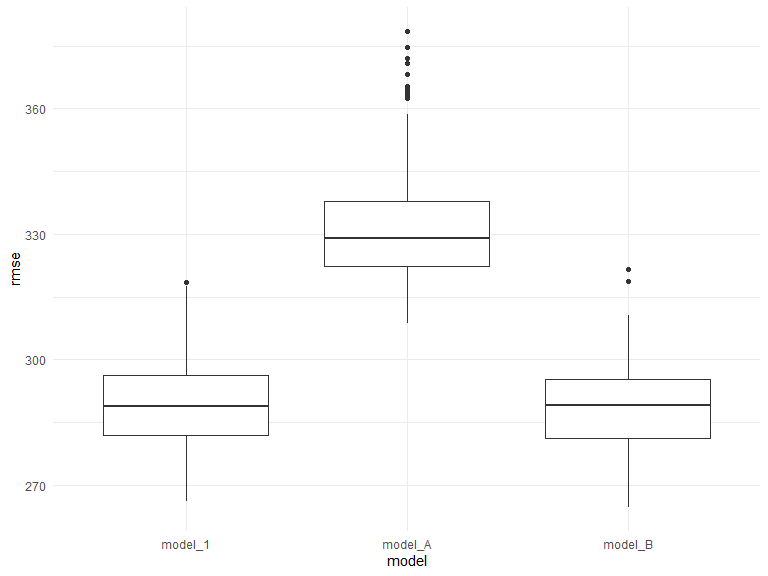
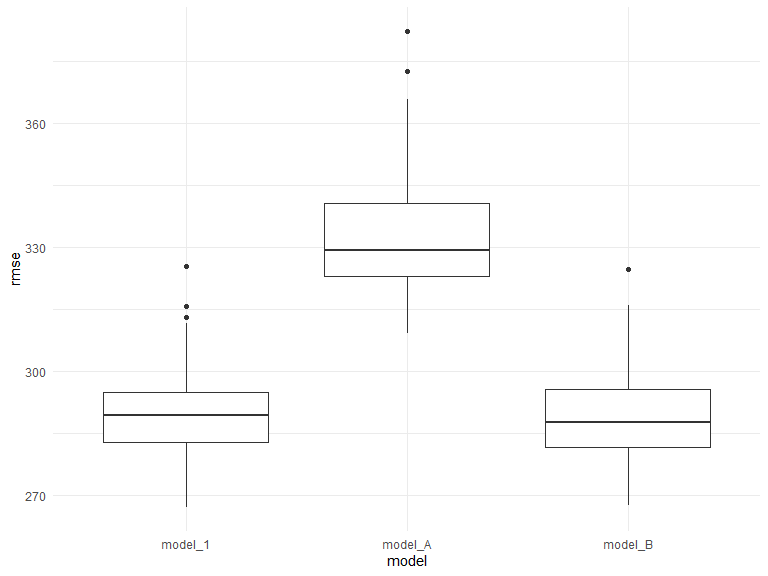
some editings

diff --git a/p8105_hw6_yc3883.md b/p8105_hw6_yc3883.md
@@ -5,26 +5,7 @@ Yijia Chen
 
 ``` r
 library(tidyverse)
-```
-
-    ## -- Attaching packages --------------------------------------- tidyverse 1.3.1 --
-
-    ## v ggplot2 3.3.5     v purrr   0.3.4
-    ## v tibble  3.1.4     v dplyr   1.0.7
-    ## v tidyr   1.1.3     v stringr 1.4.0
-    ## v readr   2.0.1     v forcats 0.5.1
-
-    ## -- Conflicts ------------------------------------------ tidyverse_conflicts() --
-    ## x dplyr::filter() masks stats::filter()
-    ## x dplyr::lag()    masks stats::lag()
-
-``` r
 library(viridis)
-```
-
-    ## 载入需要的程辑包：viridisLite
-
-``` r
 library(modelr)
 library(p8105.datasets)
 
@@ -109,8 +90,8 @@ bwt_den =
 
 Describe the modeling process:
 
-Fit the model. We have two possible models for candidates. model\_1 uses
-“bhead” and “blength” as predictors. model\_2 uses “bhead” and “gaweeks”
+Fit the model. We have two possible models for candidates. Model\_1 uses
+“bhead” and “blength” as predictors. Model\_2 uses “bhead” and “gaweeks”
 as predictors. We will compare the cross-validated prediction error of
 these models. Also, we can also see the p-value for different variables
 and compare the strength of association between predictors and baby
@@ -164,9 +145,9 @@ model_1 %>%
     ## # A tibble: 3 x 5
     ##   term        estimate std.error statistic   p.value
     ##   <chr>          <dbl>     <dbl>     <dbl>     <dbl>
-    ## 1 (Intercept)  -5919.     106.       -55.6 0        
-    ## 2 bhead          147.       3.88      37.9 1.98e-263
-    ## 3 blength         82.2      2.28      36.0 1.71e-241
+    ## 1 (Intercept)  -5998.     107.       -56.3 0        
+    ## 2 bhead          149.       3.89      38.3 2.46e-268
+    ## 3 blength         82.3      2.30      35.8 1.69e-239
 
 ``` r
 model_2 %>% 
@@ -175,11 +156,11 @@ model_2 %>%
 ```
 
     ## # A tibble: 3 x 5
-    ##   term        estimate std.error statistic     p.value
-    ##   <chr>          <dbl>     <dbl>     <dbl>       <dbl>
-    ## 1 (Intercept)  -5134.     120.       -42.9 Inf.  e-324
-    ## 2 bhead          217.       3.73      58.1   0        
-    ## 3 gaweeks         24.3      1.91      12.8   1.65e- 36
+    ##   term        estimate std.error statistic  p.value
+    ##   <chr>          <dbl>     <dbl>     <dbl>    <dbl>
+    ## 1 (Intercept)  -5195.     120.       -43.3 0       
+    ## 2 bhead          221.       3.74      59.0 0       
+    ## 3 gaweeks         22.5      1.91      11.8 2.59e-31
 
 Comparing model\_1 and model\_2, model\_1 has a lower cross-validated
 prediction error. Also, the two predictors in model\_1 show a stronger
@@ -202,8 +183,6 @@ model1_des_plot =
 model1_des_plot
 ```
 
-    ## `geom_smooth()` using formula 'y ~ x'
-
 <img src="p8105_hw6_yc3883_files/figure-gfm/unnamed-chunk-5-1.png" width="90%" />
 
 ## Problem 1 (b)
@@ -214,7 +193,7 @@ A. One using length at birth and gestational age as predictors (main
 effects only) B. One using head circumference, length, sex, and all
 interactions (including the three-way interaction) between these
 
-Generate the A and B model
+Generate the A and B models
 
 ``` r
 model_A = 
@@ -224,8 +203,7 @@ model_B =
   lm(bwt ~ babysex + bhead + blength + babysex * bhead + babysex * blength + bhead * blength + babysex * bhead * blength, data = train_df)
 ```
 
-Make this comparison in terms of the cross-validated prediction error;
-use crossv\_mc and functions in purrr as appropriate.
+Make this comparison in terms of the cross-validated prediction error.
 
 ``` r
 cv_comp_df = 
@@ -262,6 +240,10 @@ cv_output
 
 <img src="p8105_hw6_yc3883_files/figure-gfm/unnamed-chunk-7-1.png" width="90%" />
 
+Model\_1 and model\_B have significantly lower rmse than model\_A. And
+there is no obvious difference between model\_1 and model\_B based on
+this plot.
+
 # Problem 2
 
 ## Problem 2 (a)
@@ -281,16 +263,6 @@ weather_df =
     tmax = tmax / 10) %>%
   select(name, id, everything())
 ```
-
-    ## Registered S3 method overwritten by 'hoardr':
-    ##   method           from
-    ##   print.cache_info httr
-
-    ## using cached file: C:\Users\74030\AppData\Local/Cache/R/noaa_ghcnd/USW00094728.dly
-
-    ## date created (size, mb): 2021-10-18 20:59:25 (7.621)
-
-    ## file min/max dates: 1869-01-01 / 2021-10-31
 
 We’ll focus on a simple linear regression with tmax as the response and
 tmin as the predictor, and are interested in the distribution of two
@@ -329,7 +301,7 @@ quantile(rs_est$r.squared, probs = c(0.025, 0.975))
 ```
 
     ##      2.5%     97.5% 
-    ## 0.8937154 0.9267930
+    ## 0.8941340 0.9269443
 
 ``` r
 ggp_rs_est = 
@@ -342,9 +314,9 @@ ggp_rs_est
 
 <img src="p8105_hw6_yc3883_files/figure-gfm/unnamed-chunk-10-1.png" width="90%" />
 
-The distribution of estimated r^2 has a mean of 0.9113274, which
+The distribution of estimated r^2 has a mean of 0.9115249, which
 represents a overrall strong association between “tmax” and “tmin”. The
-standard deviation of the distribution is 0.0085484.
+standard deviation of the distribution is 0.0083679.
 
 ## Problem 2 (c)
 
@@ -372,7 +344,7 @@ quantile(log_est$log_b0b1, probs = c(0.025, 0.975))
 ```
 
     ##     2.5%    97.5% 
-    ## 1.964576 2.058300
+    ## 1.965238 2.058069
 
 ``` r
 ggp_log_est = 
@@ -381,7 +353,7 @@ ggp_log_est =
   geom_density()
 ```
 
-The distribution of estimated log(β0∗β1) has a mean of 2.0133654. The
-standard deviation of the distribution is 0.0241431. This distribution
+The distribution of estimated log(β0∗β1) has a mean of 2.0123558. The
+standard deviation of the distribution is 0.0237067. This distribution
 is may be more approach normal distribution compared with the estimated
 r^2 distribution, which has a little bit shift to right.
